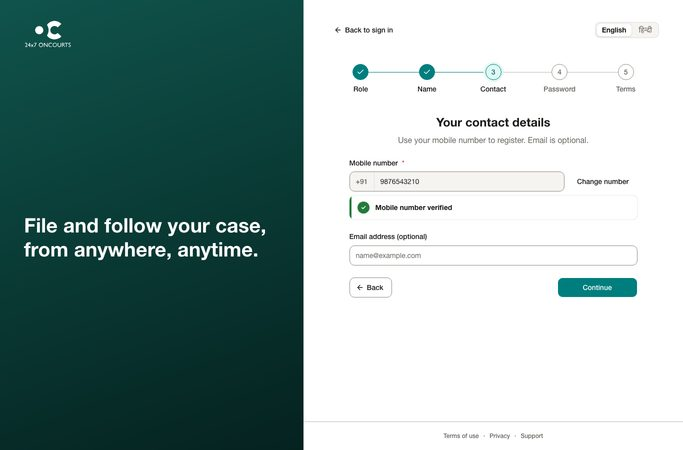
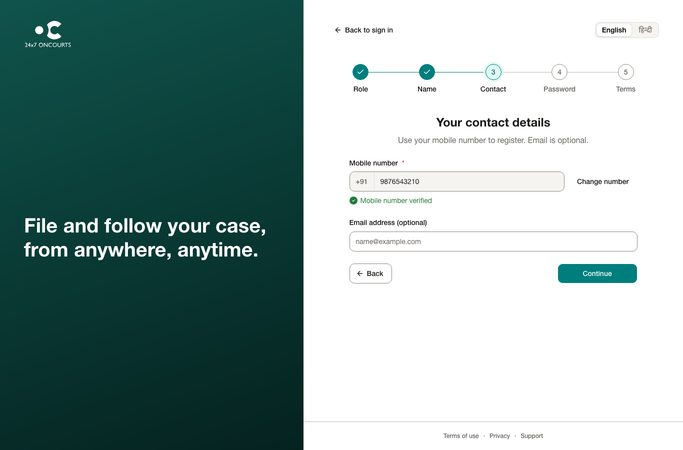
Coverage board: verified line uses the 16px mark (owner's call)
The full StatusLine was too heavy under one field. The quiet line keeps
the owner's small green text with the shared 16px StatusMark.

Changed region(s): [[0.4919, 0.4356, 0.9531, 0.6844]]

diff --git a/apps/dristi-app/src/app/coverage-board/examples.ts b/apps/dristi-app/src/app/coverage-board/examples.ts
@@ -34,7 +34,7 @@ export const EXAMPLES: Record<string, Example[]> = {
     { label: "Court · processes signed, some not sent", before: B("court", "process-signed-not-sent.jpg"), after: null, note: "Today: a hand-built amber line. Built (grey mark with a checklist), but couldn't be captured: the one demo process set to fail (ST/1334) doesn't appear in the Issuance list for the clerk or the magistrate seat in this build." },
   ],
   words: [
-    { label: "Registration · mobile number verified", before: B("access", "reg-otp-verified.jpg"), after: "/coverage-board/after/reg-otp-verified.jpg", note: "Today: a hand-built green line. Now: the shared success line with its mark. Same words." },
+    { label: "Registration · mobile number verified", before: B("access", "reg-otp-verified.jpg"), after: "/coverage-board/after/reg-otp-verified.jpg", note: "Today: a hand-built green line. Now (owner's call, 30 Oct): the same small green line, with the design system's 16px mark instead of a hand-picked icon. The first try used the full status line and was too heavy under one field." },
   ],
   deadend: [
     { label: "Take action · task not here", before: B("citizen", "task-notfound.jpg"), after: "/coverage-board/after/task-notfound.jpg", note: "Today: an empty-state block. Now: centred on the page, a grey mark with the task's icon. Same words and button." },

diff --git a/apps/dristi-app/src/components/registration/registration-flow.tsx b/apps/dristi-app/src/components/registration/registration-flow.tsx
@@ -42,7 +42,7 @@ import { cn } from "@/lib/utils";
 
 import { MaskedOtp, OTP_LENGTH } from "./masked-otp";
 import { Identifier } from "@/components/chrome/identifier";
-import { PageOutcome, StatusLine } from "@/components/feedback";
+import { PageOutcome, StatusMark } from "@/components/feedback";
 
 type Step = "role" | "name" | "contact" | "password" | "verification" | "terms" | "success" | "application";
 type AccountRole = "litigant" | "advocate" | "advocateClerk" | "poa" | "";
@@ -270,7 +270,12 @@ export function RegistrationFlow({ locale, summoned, toSign = false, initialMobi
                 )}
               </div>
               {otpVerified ? (
-                <StatusLine tone="success">{pick(contactStep.verified, locale)}</StatusLine>
+                /* Quiet, field-level: the 16px shared mark beside the words (owner, Oct 30:
+                   the full StatusLine was too heavy under one field). */
+                <p role="status" className="flex items-center gap-1.5 text-body-compact text-success-ink">
+                  <StatusMark size={16} />
+                  {pick(contactStep.verified, locale)}
+                </p>
               ) : (
                 <FieldDescription>{pick(contactStep.mobileHint, locale)}</FieldDescription>
               )}
